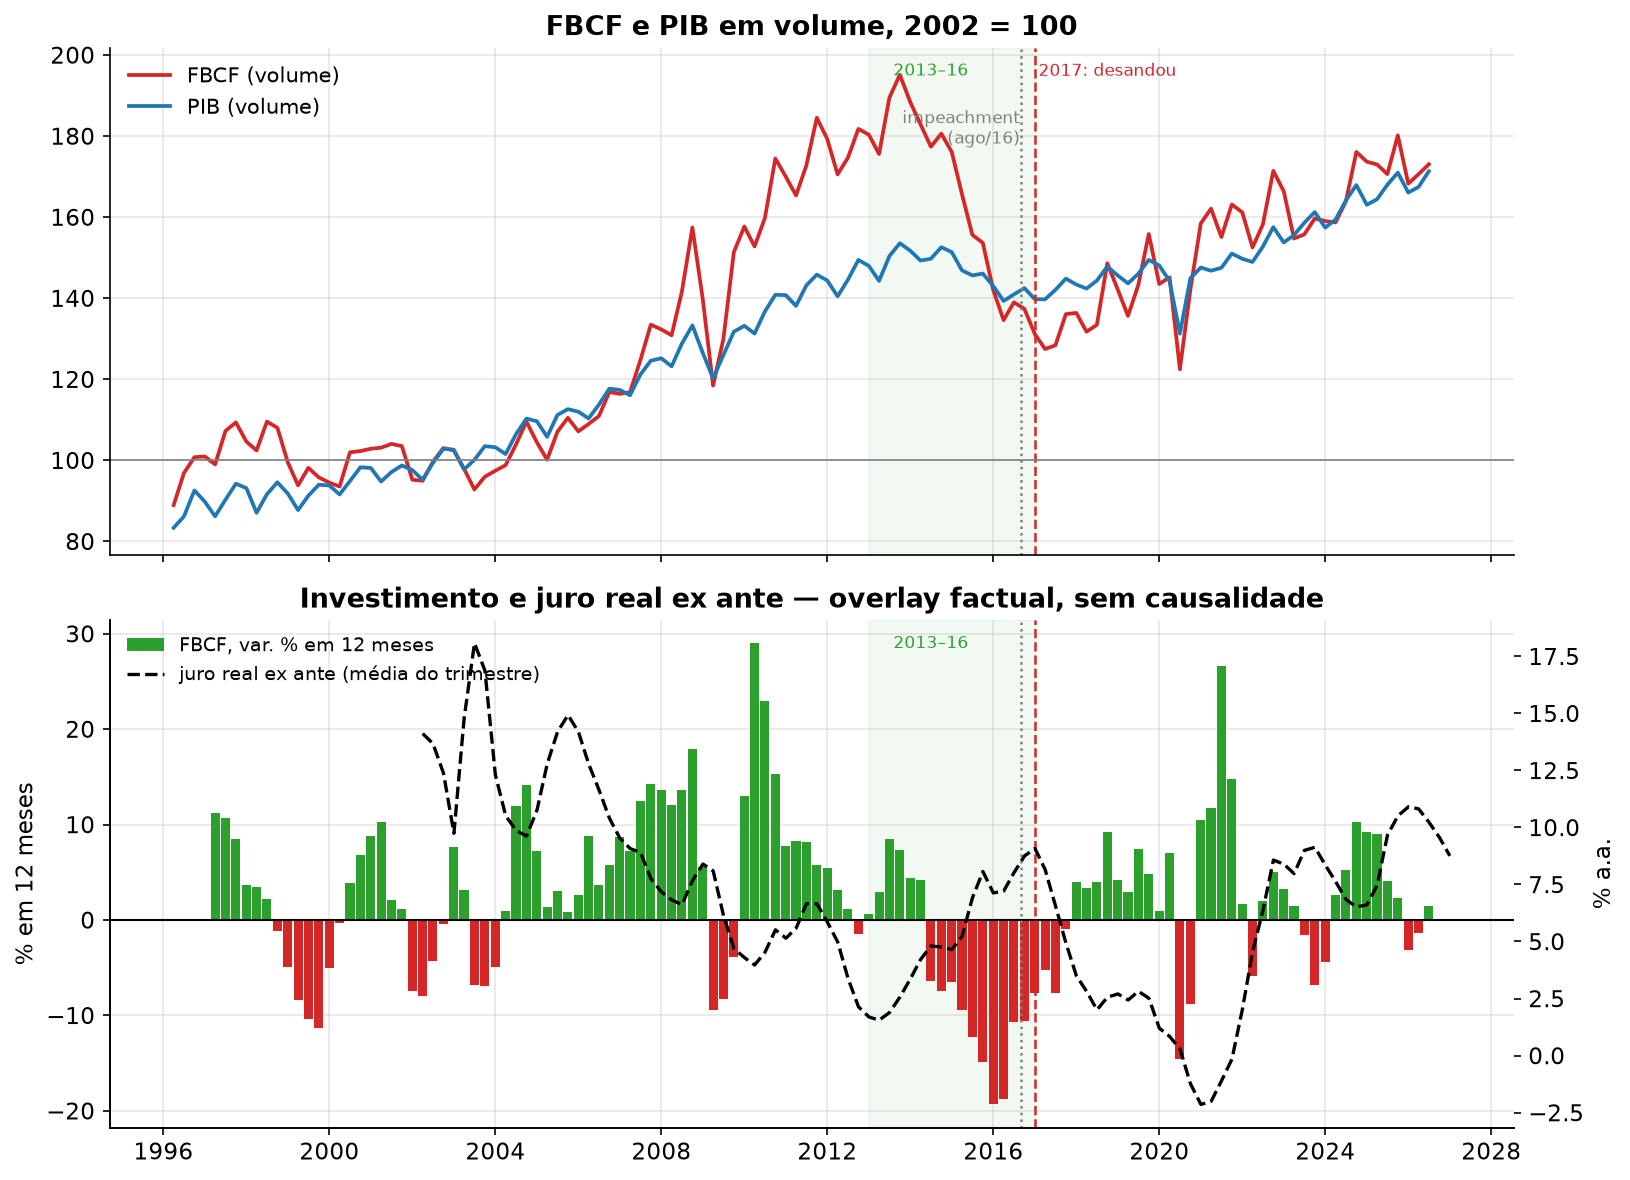
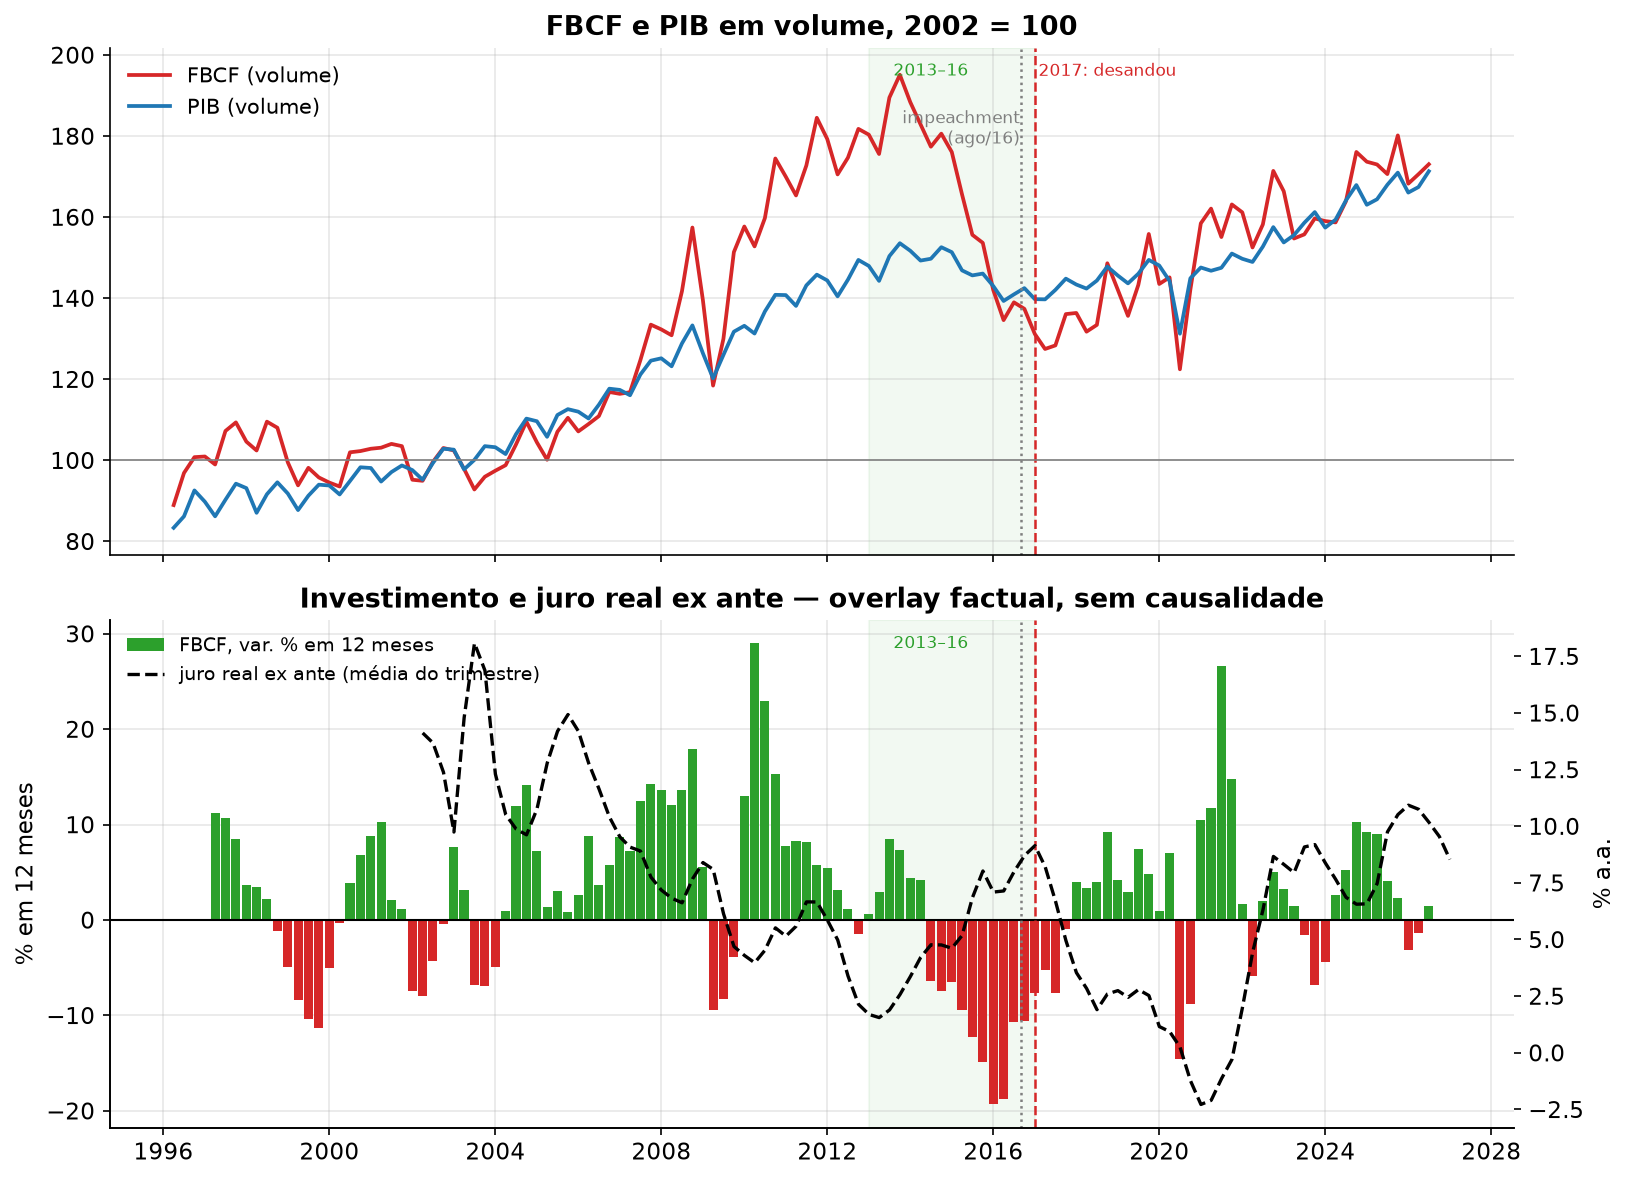
melhorias de arquitetura: indicadores validam colunas, series e cobertura (falha ruidosa, nunca saida omissa) — + nb08 recalculado com o focus atualizado

diff --git a/src/processa/indicadores.py b/src/processa/indicadores.py
@@ -5,11 +5,59 @@ Tudo aqui é derivado dos parquets de `dados/processado/` — nenhum download.
 
 from __future__ import annotations
 
+from datetime import date
+
 import pandas as pd
 
 from ..extratores.base import ler_parquet
 
 ANO_INICIO = 2002
+COBERTURA_DETENTORES = 2007  # RMD 2.7 (detentores da DPMFi) começa em jan/2007
+
+
+# ------------------------------------------------------------------ validação
+# Falha ruidosa em vez de saída incompleta em silêncio: o dado de entrada
+# precisa ter as colunas, as séries e a cobertura temporal que as contas
+# assumem (mesmo padrão de fatores_anuais).
+
+
+def _exigir_colunas(df: pd.DataFrame, colunas: list[str], fonte: str) -> None:
+    """Falha ruidosa se colunas esperadas faltarem no dado de entrada."""
+    faltando = [c for c in colunas if c not in df.columns]
+    if faltando:
+        raise ValueError(
+            f"{fonte}: colunas ausentes {faltando} — "
+            f"encontradas: {sorted(df.columns)}")
+
+
+def _sgs_serie(sgs: pd.DataFrame, nome: str) -> pd.DataFrame:
+    """Fatia do SGS por nome de série; falha ruidosa se ela não existir.
+
+    (Série ausente viraria coluna inteira de NaN no resample — falha
+    silenciosa, o pior tipo para uma série analítica.)
+    """
+    _exigir_colunas(sgs, ["serie", "data", "valor"], "sgs.parquet")
+    d = sgs[sgs.serie == nome]
+    if d.empty:
+        raise ValueError(
+            f"sgs.parquet: série {nome!r} ausente — "
+            f"disponíveis: {sorted(sgs.serie.unique())}")
+    return d
+
+
+def _exigir_cobertura_anual(df: pd.DataFrame, desde: int, fonte: str,
+                            col_ano: str = "ano") -> None:
+    """Falha ruidosa se a série anual recuar antes de `desde` ou tiver buracos."""
+    if df.empty:
+        raise ValueError(f"{fonte}: saiu vazia")
+    anos = sorted(df[col_ano].unique())
+    if anos[0] > desde:
+        raise ValueError(
+            f"{fonte}: cobertura recuou — primeiro ano {anos[0]} "
+            f"(esperado desde {desde})")
+    buracos = [a for a in range(anos[0], anos[-1] + 1) if a not in set(anos)]
+    if buracos:
+        raise ValueError(f"{fonte}: anos faltando na sequência: {buracos}")
 
 
 # ------------------------------------------------------------------ fiscal/anual
@@ -27,7 +75,7 @@ def juros_anuais() -> pd.DataFrame:
     sgs = ler_parquet("sgs")
 
     def _serie(nome: str) -> pd.Series:
-        s = sgs[sgs.serie == nome].set_index("data")["valor"]
+        s = _sgs_serie(sgs, nome).set_index("data")["valor"]
         return s.resample("YE").sum()
 
     juros = _serie("juros_mensal")
@@ -48,6 +96,7 @@ def juros_anuais() -> pd.DataFrame:
     df["juros_pib_pct"] = 100 * df["juros_mi"] / df["pib_mi"]
     df["juros_ex_swap_pib_pct"] = 100 * df["juros_ex_swap_mi"] / df["pib_mi"]
     df = df[df.ano >= ANO_INICIO].reset_index(drop=True)
+    _exigir_cobertura_anual(df, ANO_INICIO, "juros_anuais")
     return df
 
 
@@ -90,14 +139,19 @@ def fatores_anuais() -> pd.DataFrame:
 def detentores_anuais() -> pd.DataFrame:
     """Estoque da DPMFi por detentor no dezembro de cada ano (R$ bi e participação)."""
     det = ler_parquet("rmd_detentores")
+    _exigir_colunas(det, ["detentor", "data", "valor_bi", "participacao"],
+                    "rmd_detentores.parquet")
     det = det[det.detentor != "Total"].copy()
     dez = det[det.data.dt.month == 12].copy()
     dez["ano"] = dez.data.dt.year
+    _exigir_cobertura_anual(dez, COBERTURA_DETENTORES, "detentores_anuais")
     return dez[["ano", "data", "detentor", "valor_bi", "participacao"]].reset_index(drop=True)
 
 
 def detentores_mes() -> pd.DataFrame:
     det = ler_parquet("rmd_detentores")
+    _exigir_colunas(det, ["detentor", "data", "valor_bi", "participacao"],
+                    "rmd_detentores.parquet")
     return det[det.detentor != "Total"].copy()
 
 
@@ -107,14 +161,22 @@ def juros_por_detentor(ano: int | None = None) -> pd.DataFrame:
     Premissa: participação do estoque em dezembro aproxima a participação média
     do ano no dispêndio com juros (proxy — não é dado oficial por detentor).
 
-    O `merge` é interno: anos sem linha de dezembro em `detentores` (2026,
-    enquanto o RMD 2.7 não fechar o ano) ficam de fora — comportamento
-    pretendido, mas aqui declarado.
+    O `merge` é interno: anos sem linha de dezembro em `detentores` ficam de
+    fora — os anos antes da cobertura do RMD 2.7 (até 2006) e o ano corrente,
+    enquanto o anexo não fecha o ano. Qualquer outro ano descartado é erro.
     """
     j = juros_anuais()
     if ano is not None:
         j = j[j.ano == ano]
     det = detentores_anuais()
+    # o merge interno descarta anos silenciosamente — medir antes de cruzar
+    sem_match = sorted(set(j.ano) - set(det.ano))
+    inesperados = [a for a in sem_match
+                   if a >= COBERTURA_DETENTORES and a < date.today().year]
+    if inesperados:
+        raise ValueError(
+            f"juros_por_detentor: anos sem dezembro em detentores: "
+            f"{inesperados} — o merge interno os descartaria em silêncio")
     det = det.merge(j[["ano", "juros_mi"]], on="ano")
     det["juros_estimado_mi"] = det.participacao * det["juros_mi"]
     det["juros_estimado_bi"] = det.juros_estimado_mi / 1000
@@ -129,7 +191,7 @@ def macro_mensal() -> pd.DataFrame:
     sgs = ler_parquet("sgs")
 
     def _ult_do_mes(nome: str) -> pd.Series:
-        s = sgs[sgs.serie == nome].set_index("data")["valor"]
+        s = _sgs_serie(sgs, nome).set_index("data")["valor"]
         return s.resample("ME").last()
 
     selic_meta = _ult_do_mes("meta_selic_copom")
@@ -138,9 +200,13 @@ def macro_mensal() -> pd.DataFrame:
     ibc12 = (ibc / ibc.shift(12) - 1) * 100
     selic_mensal = _ult_do_mes("selic_mensal_anualizada")
 
-    des = ler_parquet("desemprego").set_index("data")["taxa_pct"]
+    des = ler_parquet("desemprego")
+    _exigir_colunas(des, ["data", "taxa_pct"], "desemprego.parquet")
+    des = des.set_index("data")["taxa_pct"]
 
     foc = ler_parquet("focus_inflacao12m")
+    _exigir_colunas(foc, ["data_pesquisa", "suavizada", "media"],
+                    "focus_inflacao12m.parquet")
     foc = foc[foc.suavizada == "N"].set_index("data_pesquisa")["media"]
     foc = foc.resample("ME").last()
 
@@ -164,7 +230,10 @@ def selic_real_mensal() -> pd.DataFrame:
 
 
 def focus_anuais() -> pd.DataFrame:
-    return ler_parquet("focus_anuais")
+    d = ler_parquet("focus_anuais")
+    _exigir_colunas(d, ["indicador", "data_pesquisa", "data_referencia", "media"],
+                    "focus_anuais.parquet")
+    return d
 
 
 # ------------------------------------------------------------------ custo médio
@@ -172,13 +241,25 @@ def focus_anuais() -> pd.DataFrame:
 
 def custo_medio() -> pd.DataFrame:
     c = ler_parquet("rmd_custo_medio")
+    _exigir_colunas(c, ["data", "escopo", "tabela", "taxa_pct_aa"],
+                    "rmd_custo_medio.parquet")
     return c
 
 
 def custo_medio_dpf() -> pd.DataFrame:
     """Custo médio do estoque (% a.a.), escopo DPF — série mensal desde 2005."""
     c = ler_parquet("rmd_custo_medio")
+    _exigir_colunas(c, ["data", "escopo", "tabela", "taxa_pct_aa"],
+                    "rmd_custo_medio.parquet")
     d = c[(c.tabela == "estoque mensal") & (c.escopo == "DPF")]
+    if d.empty:
+        raise ValueError(
+            "custo_medio_dpf: o filtro 'estoque mensal'/'DPF' não casou nenhuma "
+            "linha — os rótulos do RMD 4.x mudaram?")
+    if d.data.min().to_period("M") > pd.Period("2005-01"):
+        raise ValueError(
+            f"custo_medio_dpf: cobertura recuou — começa em "
+            f"{d.data.min():%Y-%m} (esperado desde 2005-01)")
     return d[["data", "taxa_pct_aa"]].reset_index(drop=True)
 
 
@@ -194,6 +275,10 @@ def validacao_bndes() -> pd.DataFrame:
     }
     linhas = []
     for ano, esp in esperado.items():
+        if ano not in set(j.ano):
+            raise ValueError(
+                f"validacao_bndes: o ano {ano} (Estudo BNDES) não existe em "
+                f"juros_anuais — anos disponíveis: {sorted(j.ano)}")
         r = j[j.ano == ano].iloc[0]
         linhas.append({
             "ano": ano,
@@ -217,10 +302,12 @@ def juros_primario_12m() -> pd.DataFrame:
     sgs = ler_parquet("sgs")
 
     def _serie(nome: str) -> pd.Series:
-        return sgs[sgs.serie == nome].set_index("data")["valor"].dropna()
+        return _sgs_serie(sgs, nome).set_index("data")["valor"].dropna()
 
-    return pd.concat(
-        [_serie("juros_pib_12m").rename("juros_pib_12m"),
-         _serie("primario_pib_12m").rename("primario_pib_12m")],
-        axis=1,
-    )
+    a = _serie("juros_pib_12m").rename("juros_pib_12m")
+    b = _serie("primario_pib_12m").rename("primario_pib_12m")
+    if not a.index.equals(b.index):
+        raise ValueError(
+            f"juros_primario_12m: calendários divergentes entre "
+            f"juros_pib_12m ({len(a)} datas) e primario_pib_12m ({len(b)} datas)")
+    return pd.concat([a, b], axis=1)
